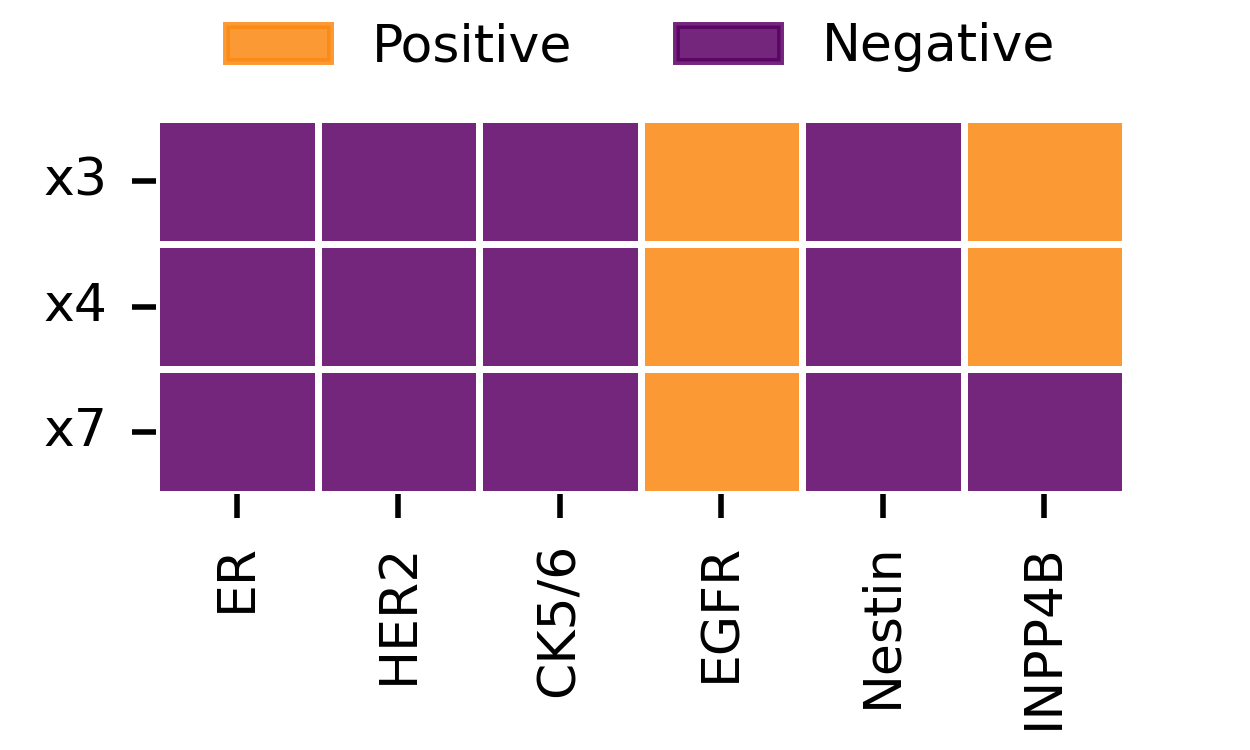
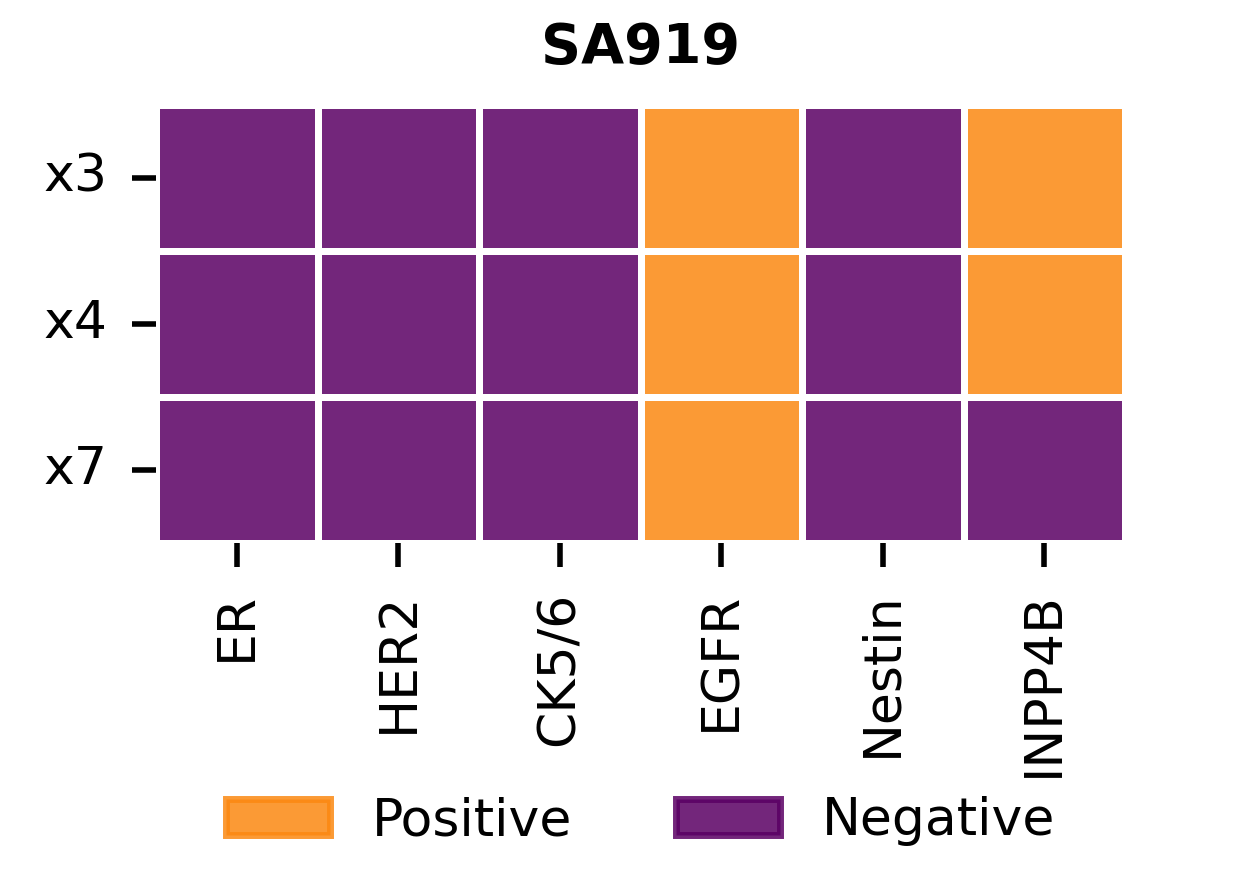
Minor changes to figures

diff --git a/figures/metastasis_manuscript_fig.py b/figures/metastasis_manuscript_fig.py
@@ -91,17 +91,18 @@ if __name__ == '__main__':
 
     fig8_markers = pd.read_csv("figures/Fig8_markers.csv", index_col=0)
 
-    fig, ax = plt.subplots(1, 1, figsize=(2.5, 1.5))
+    fig, ax = plt.subplots(1, 1, figsize=(2.5, 1.75))
     cmap = ["#5a0064d9", "#fb8811d9"]
     sns.heatmap(fig8_markers, cmap=cmap, cbar=False, linewidth=0.75)
     legend_handles = [Patch(color=cmap[True], label='Positive'),
                       Patch(color=cmap[False], label='Negative')]
-    plt.legend(handles=legend_handles, ncol=2, bbox_to_anchor=[0.5, 1.0], loc='lower center',
+    plt.legend(handles=legend_handles, ncol=2, bbox_to_anchor=[0.5, -0.8], loc='lower center',
                frameon=False, fontsize=7.5)
     plt.xticks(rotation=90, fontsize=7.5)
     plt.yticks(rotation=0, fontsize=7.5)
+    plt.title("SA919", weight='bold', fontsize=8)
     box = ax.get_position()
-    ax.set_position([box.x0, box.y0 + box.height * 0.3, box.width, box.height * 0.65])
+    ax.set_position([box.x0, box.y0 + box.height * 0.35, box.width, box.height * 0.65])
     plt.savefig("figures/output/fig8_markers.png", dpi=500)
     plt.clf()
 
